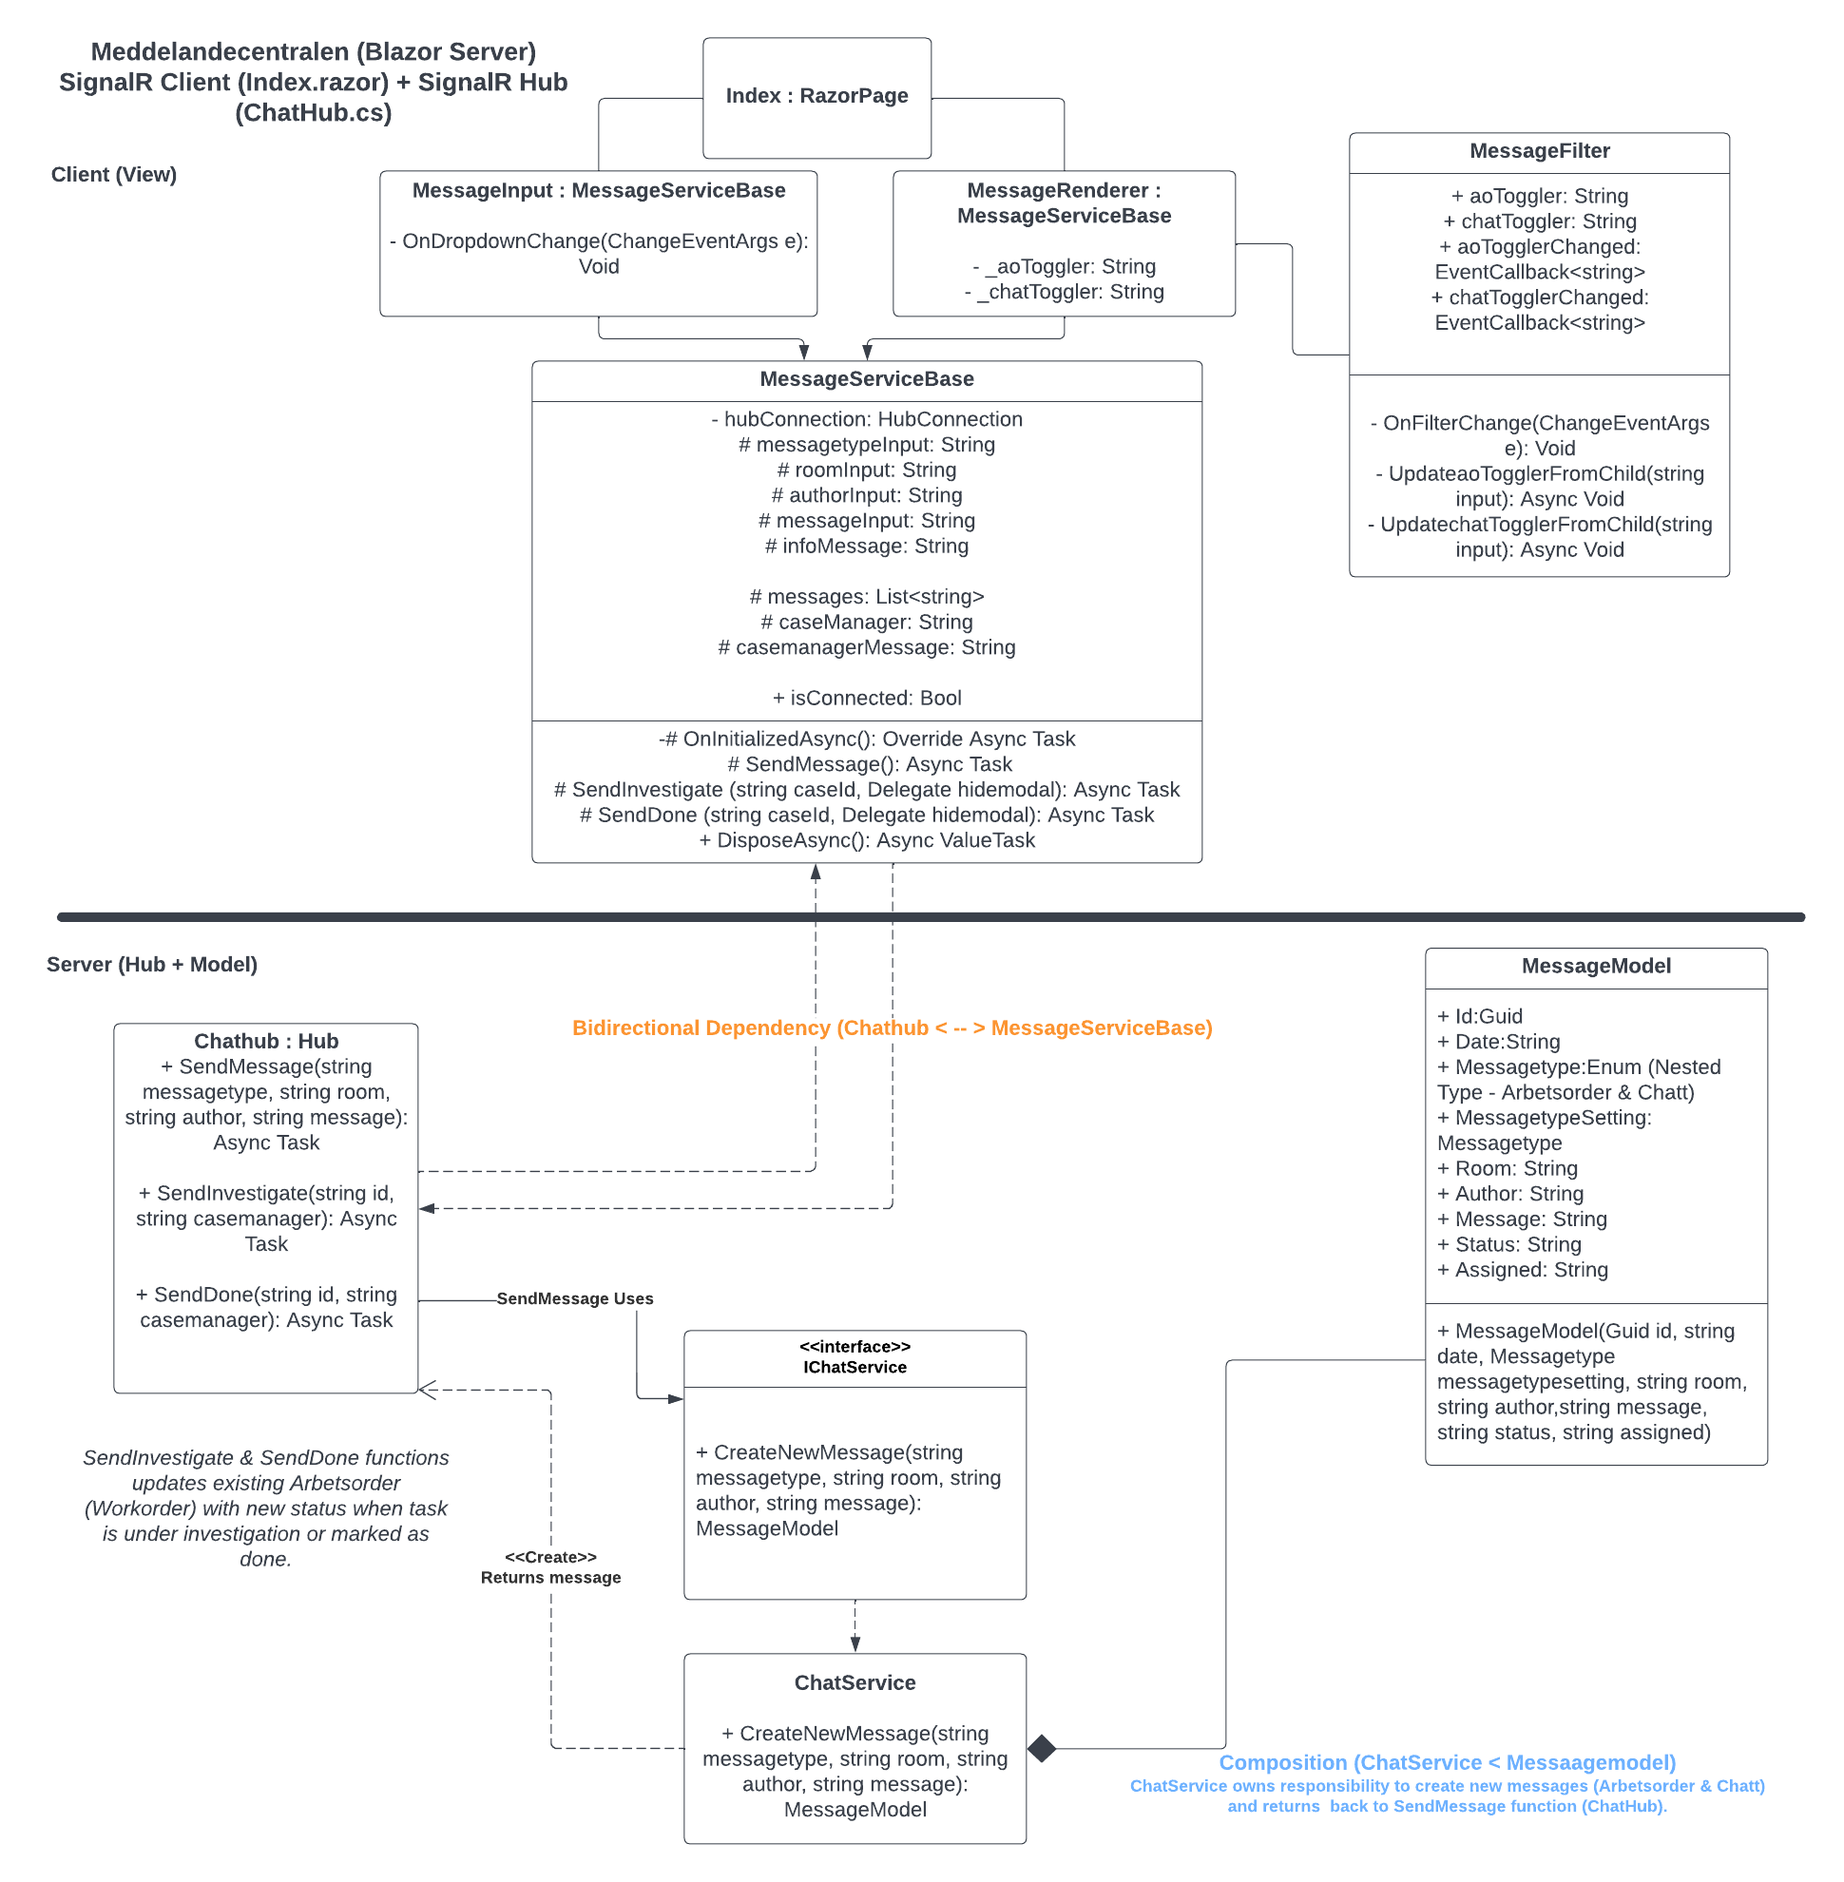
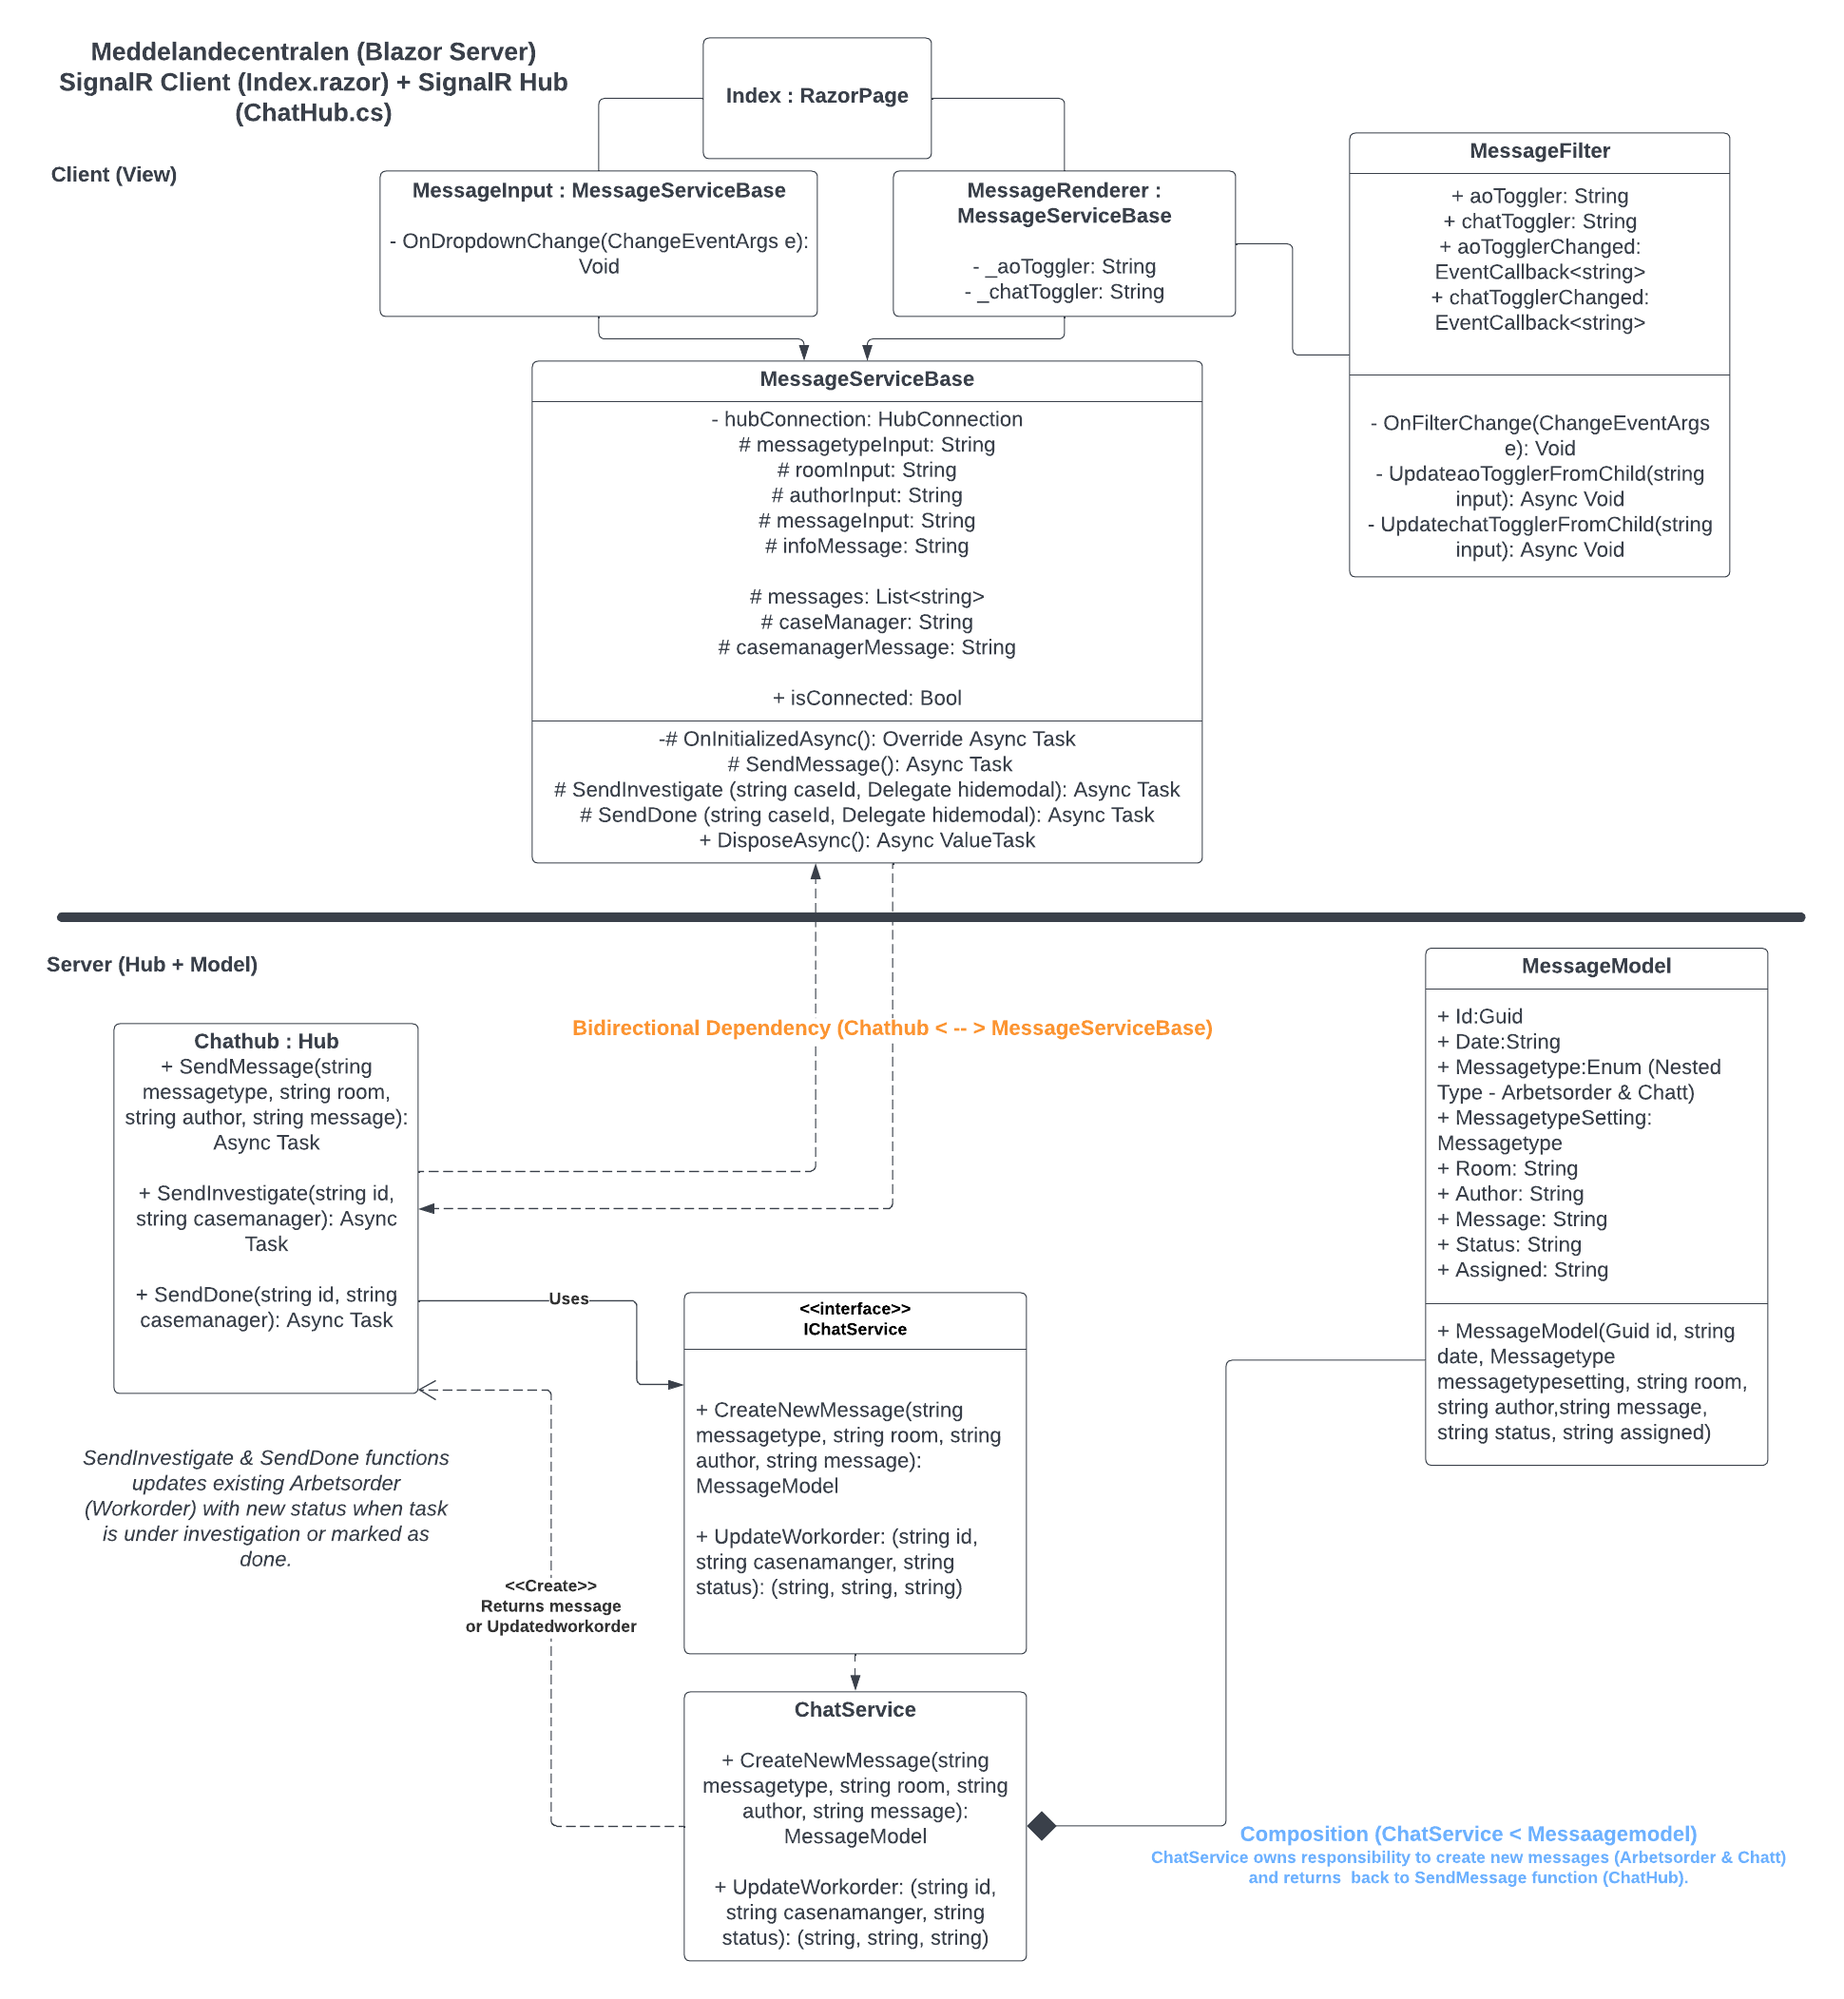
Uppdatering ChatService, IChatService och Chathub med Updateworkorder + klassdiagram

diff --git a/Hubs/ChatHub.cs b/Hubs/ChatHub.cs
@@ -31,17 +31,16 @@ namespace BlazorServerSignalRApp.Server.Hubs
             if (string.IsNullOrEmpty(id + casemanager)){
                 return;
             }
-
-            const string status = "Under utredning";
-            await Clients.All.SendAsync("ReceiveInvestigate", id, casemanager, status);
+            var updatedworkorder = _chatService.UpdateWorkorder(id, casemanager, "Under utredning");
+            await Clients.All.SendAsync("ReceiveInvestigate", updatedworkorder.Item1, updatedworkorder.Item2, updatedworkorder.Item3);
         }
         public async Task SendDone(string id, string casemanager)
         {
             if (string.IsNullOrEmpty(id + casemanager)){
                 return;
             }
-            const string status = "Åtgärdad";
-            await Clients.All.SendAsync("ReceiveDone", id, casemanager, status);
+            var updatedworkorder = _chatService.UpdateWorkorder(id, casemanager, "Åtgärdad");
+            await Clients.All.SendAsync("ReceiveDone", updatedworkorder.Item1, updatedworkorder.Item2, updatedworkorder.Item3);
         }
     }
 }

diff --git a/Services/IChatService.cs b/Services/IChatService.cs
@@ -5,5 +5,6 @@ namespace Meddelandecentralen.Services
   public interface IChatService
     {
       MessageModel CreateNewMessage(string messagetype, string room, string author, string message);
+      (string, string, string) UpdateWorkorder(string id, string casenamanger, string status);
     }
 }

diff --git a/Services/ChatService.cs b/Services/ChatService.cs
@@ -24,5 +24,8 @@ namespace Meddelandecentralen.Services
         return chat;
       }
     }
+    public (string, string, string) UpdateWorkorder(string id, string casemanager, string status){
+      return (id, casemanager, status);
+    }
   }
 }
